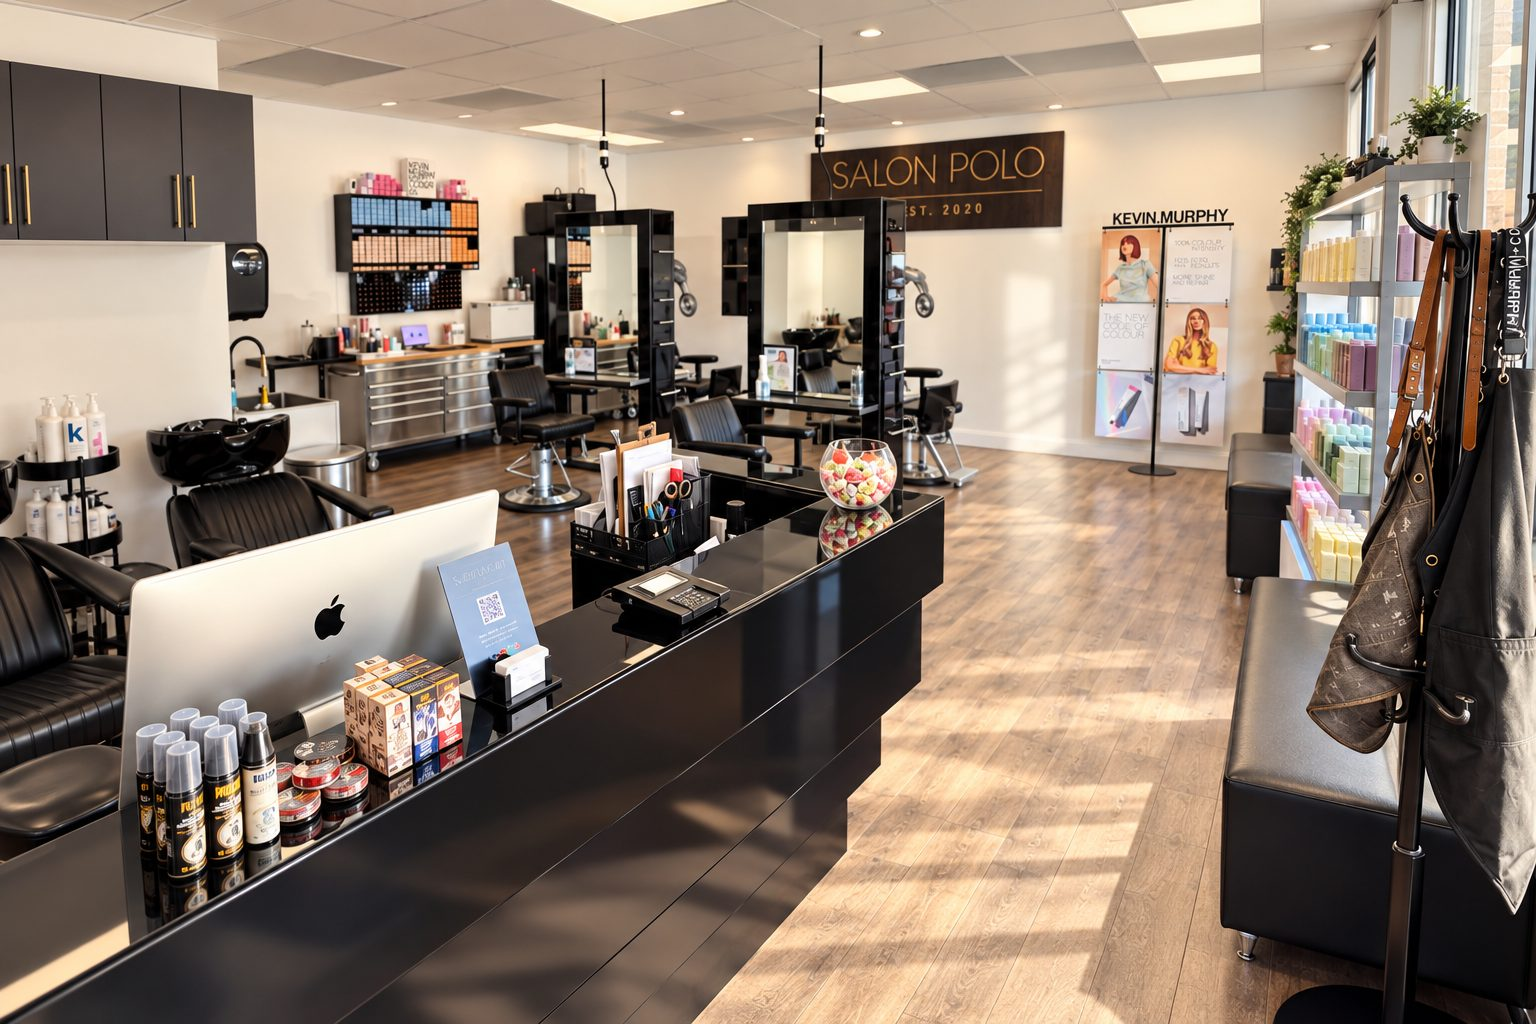
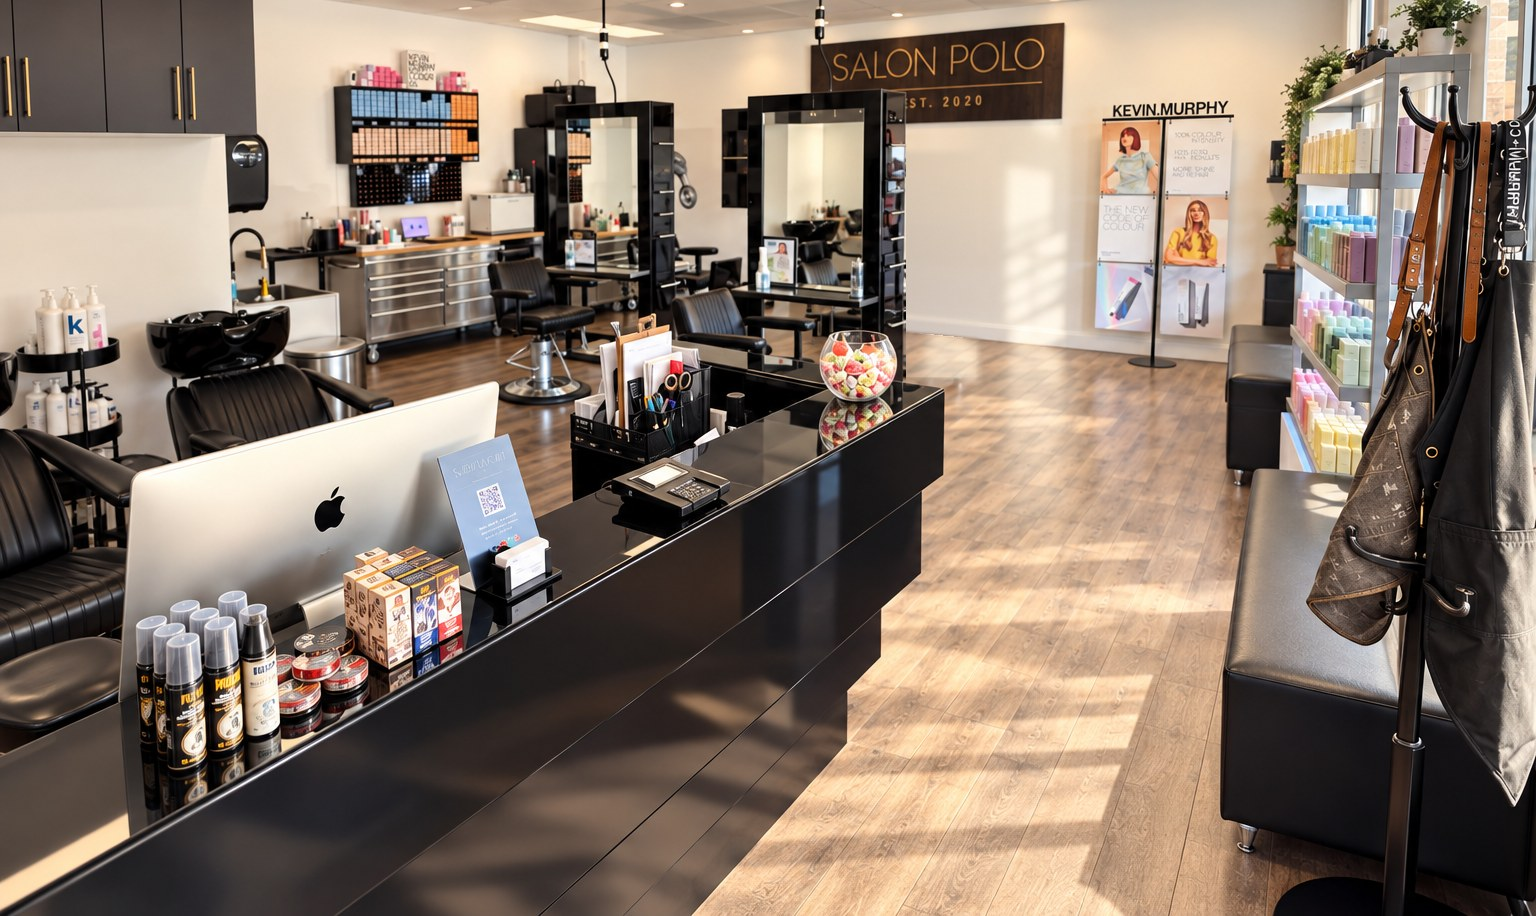
Hero photo: crop ceiling, remove extra dryer and chair
Claude-Session: https://claude.ai/code/session_01QEBK6Qnz19RuPp24x5TGdt

diff --git a/index.html b/index.html
@@ -49,7 +49,7 @@ em { font-style: italic; }
 
 /* Hero: the photo leads, headline set over its lower edge */
 .hero { position: relative; overflow: hidden; background: var(--ink); }
-.hero .photo { display: block; width: 100%; height: min(clamp(480px, 56vw, 760px), calc(100svh - 76px)); min-height: 460px; object-fit: cover; object-position: 55% 45%; }
+.hero .photo { display: block; width: 100%; height: min(clamp(480px, 56vw, 760px), calc(100svh - 76px)); min-height: 460px; object-fit: cover; object-position: 55% 0%; }
 .hero::after { content: ""; position: absolute; inset: 0; background: linear-gradient(180deg, rgba(17,17,17,0) 20%, rgba(17,17,17,.45) 50%, rgba(17,17,17,.85) 100%), linear-gradient(90deg, rgba(17,17,17,.45) 0%, rgba(17,17,17,0) 60%); pointer-events: none; }
 .hero-text { position: absolute; left: 0; right: 0; bottom: 0; z-index: 2; color: var(--wall); padding-block: 0 clamp(28px, 4.5vw, 64px); }
 .hero-text .kicker { margin: 0 0 14px; font-size: .7rem; letter-spacing: .26em; text-transform: uppercase; color: rgba(251,250,248,.85); }
@@ -61,7 +61,7 @@ em { font-style: italic; }
 .btn.light:hover { background: transparent; color: var(--wall) !important; }
 .btn.ghost.light { background: transparent; border-color: var(--wall); color: var(--wall) !important; }
 .btn.ghost.light:hover { background: var(--wall); color: var(--ink) !important; }
-.hero .photo { transform-origin: 58% 42%; animation: pushin 22s ease-in-out infinite alternate; will-change: transform; }
+.hero .photo { transform-origin: 58% 12%; animation: pushin 22s ease-in-out infinite alternate; will-change: transform; }
 @keyframes pushin { from { transform: scale(1); } to { transform: scale(1.18); } }
 @keyframes rise { from { opacity: .001; transform: translateY(18px); } to { opacity: 1; transform: none; } }
 @media (prefers-reduced-motion: reduce) { .hero-text h1, .hero .photo { animation: none; } html { scroll-behavior: auto; } }
